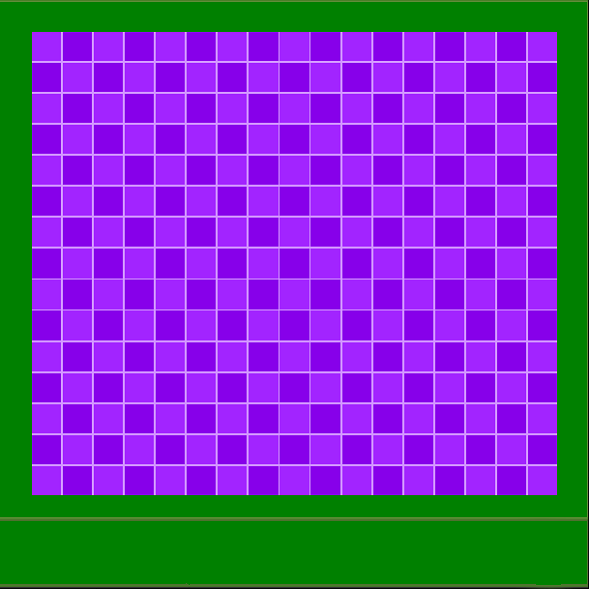
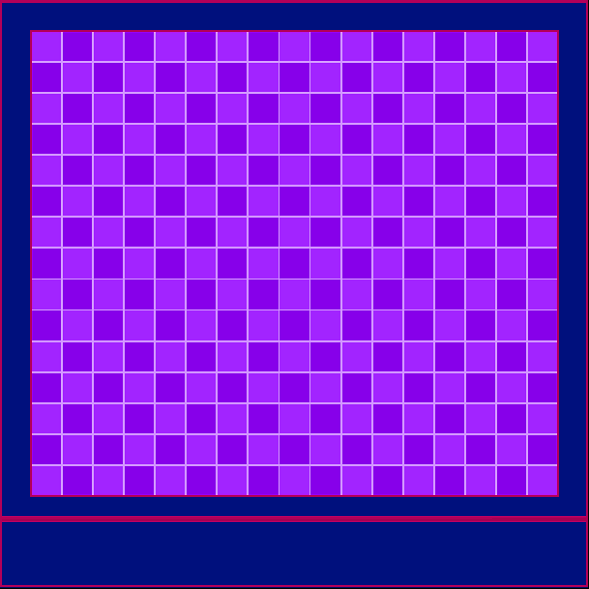
add full game

Changed region(s): [[0.0, 0.0, 1.0, 1.0]]

diff --git a/task-3/js/snake.js b/task-3/js/snake.js
@@ -1,5 +1,9 @@
 const canvas = document.getElementById("snake");
 const ctx = canvas.getContext("2d");
+const startForm = document.getElementById("startForm");
+const startBtn = document.getElementById("startBtn");
+const gameEndForm = document.getElementById("gameEndForm");
+const restartBtn = document.getElementById("restartBtn");
 
 const ground = new Image();
 ground.src = "img/ground.png";
@@ -10,128 +14,166 @@ foodImg.src = "img/food.png";
 const poisonFoodImg = new Image();
 poisonFoodImg.src = "img/poisonFood.png";
 
+const tileX = 17;
+
+const tileY = 15;
+
 let tile = 31;
 
 let score = 0;
 
-let food = {
-    x: Math.floor((Math.random() * 17 + 1)) * tile,
-    y: Math.floor((Math.random() * 15 + 1)) * tile,
-};
+let food;
+let poisonFood;
 
-let poisonFood = {
-    x: Math.floor((Math.random() * 17 + 1)) * tile,
-    y: Math.floor((Math.random() * 15 + 1)) * tile,
+let snake = initSnake();
+food = getRandomPoint();
+poisonFood = getRandomPoint();
+
+function initSnake() {
+    return [
+        {
+            x: 9 * tile,
+            y: 8 * tile
+        }
+    ]
 }
-
-let snake = [];
-snake[0] = {
-    x: 9 * tile,
-    y: 8 * tile
-};
 
 document.addEventListener("keydown", direction);
 
 let dir;
+let newDir;
 
 function direction(input) {
-    if(input.keyCode == 37 && dir != "right")
-        dir = "left";
-    else if(input.keyCode == 38 && dir != "down")
-        dir = "up";
-    else if(input.keyCode == 39 && dir != "left")
-        dir = "right";
-    else if(input.keyCode == 40 && dir != "up")
-        dir = "down";
+    if (input.keyCode == 37 && dir != "right")
+        newDir = "left";
+    else if (input.keyCode == 38 && dir != "down")
+        newDir = "up";
+    else if (input.keyCode == 39 && dir != "left")
+        newDir = "right";
+    else if (input.keyCode == 40 && dir != "up")
+        newDir = "down";
 }
 
-function eatTail(head, arr) {
-    for(let i = 0; i < arr.length; i++) {
-        if(head.x == arr[i].x && head.y == arr[i].y)
-        clearInterval(timer);
+function isEatSelf(head, snake) {
+    for (let i = 0; i < snake.length; i++) {
+        if (head.x == snake[i].x && head.y == snake[i].y) {
+            endGame();
+        }
+        // clearInterval(timer);
     }
 }
 
-function drawObject() {
+function drawSnake() {
+    for (let i = 0; i < snake.length; i++) {
+        ctx.fillStyle = i == 0 ? "#0000FF" : "#0033CC";
+        ctx.fillRect(snake[i].x, snake[i].y, tile, tile);
+    };
+};
+
+function shownScore() {
+    ctx.fillStyle = "white";
+    ctx.font = "50px Times New Roman";
+    ctx.fillText("Score:", tile, tile * 18.3);
+
+    ctx.fillStyle = "white";
+    ctx.font = "50px Times New Roman";
+    ctx.fillText(score, tile * 5.2, tile * 18.35);
+};
+
+function getRandomPoint() {
+    const point = {
+        x: Math.floor((Math.random() * tileX + 1)) * tile,
+        y: Math.floor((Math.random() * tileY + 1)) * tile,
+    };
+
+    if (snake[0].x === point.x && snake[0].y === point.y) {
+        return getRandomPoint();
+    }
+    if (food && food.x === point.x && food.y === point.y) {
+        return getRandomPoint();
+    }
+    if (poisonFood && poisonFood.x === point.x && poisonFood.y === point.y) {
+        return getRandomPoint();
+    }
+
+    return point;
+};
+
+function eatSpawn({ x, y }) {
+    if (x == food.x && y == food.y) {
+        score++;
+        food = getRandomPoint();
+        snake.push({})
+    }
+    if (x == poisonFood.x && y == poisonFood.y) {
+        score--;
+        poisonFood = getRandomPoint();
+    }
+};
+
+function drawGame() {
+    dir = newDir;
+
     ctx.drawImage(ground, 0, 0);
 
     ctx.drawImage(foodImg, food.x, food.y);
 
     ctx.drawImage(poisonFoodImg, poisonFood.x, poisonFood.y);
 
-    for(let i = 0; i < snake.length; i++) {
-        ctx.fillStyle = i == 0 ? "#0000FF" : "#0033CC";
-        ctx.fillRect(snake[i].x, snake[i].y, tile, tile);
-    };
+    drawSnake();
 
-    ctx.fillStyle = "black";
-    ctx.font = "50px Times New Roman";
-    ctx.fillText("Score:", tile, tile * 18.3);
-
-    ctx.fillStyle = "black";
-    ctx.font = "50px Times New Roman";
-    ctx.fillText(score, tile * 5.2, tile * 18.35);
+    shownScore();
 
     let snakeX = snake[0].x;
     let snakeY = snake[0].y;
 
-    // if(timer = setInterval * 10) {
-    //     poisonFood = {
-    //         x: Math.floor((Math.random() * 17 + 1)) * tile,
-    //         y: Math.floor((Math.random() * 15 + 1)) * tile, 
-    //     }               
-    // } else
-    //     snake.pop();
-    // 
-    // 
-    //  Попытка привязать повторный респавн объекта к таймеру
+    eatSpawn(snake[0]);
 
-    if(snakeX == food.x && snakeY == food.y) {
-        score++;
-        food = {
-            x: Math.floor((Math.random() * 17 + 1)) * tile,
-            y: Math.floor((Math.random() * 15 + 1)) * tile,
-        };
-    } else 
-        snake.pop();
+    if (snakeX < tile || snakeX > tile * tileX || snakeY < tile || snakeY > tile * tileY) {
+        endGame();
+    }
 
-    if(snakeX == poisonFood.x && snakeY == poisonFood.y) {
-        score--;
-        poisonFood = {
-            x: Math.floor((Math.random() * 17 + 1)) * tile,
-            y: Math.floor((Math.random() * 15 + 1)) * tile,
-        };
-    } else
-        snake.pop();
+    if (dir == "left") snakeX -= tile;
+    if (dir == "right") snakeX += tile;
+    if (dir == "up") snakeY -= tile;
+    if (dir == "down") snakeY += tile;
 
-        if(snakeX == poisonFood.x && snakeY == poisonFood.y) {
-            score--;
-            poisonFood = {
-                x: Math.floor((Math.random() * 17 + 1)) * tile,
-                y: Math.floor((Math.random() * 15 + 1)) * tile,
-            };
-        } else
-            snake.pop();
-    
-            
-
-    if(snakeX < tile || snakeX > tile * 17
-       || snakeY < tile || snakeY > tile * 15)
-       clearInterval(timer);
-
-    if(dir == "left") snakeX -= tile;
-    if(dir == "right") snakeX += tile;
-    if(dir == "up") snakeY -= tile;
-    if(dir == "down") snakeY += tile;
+    snake.pop();
 
     let newHead = {
         x: snakeX,
         y: snakeY
     };
 
-    eatTail(newHead, snake)
+    isEatSelf(newHead, snake)
 
     snake.unshift(newHead);
 };
 
-let timer = setInterval(drawObject, 80);
+function endGame() {
+    clearInterval(timer);
+    gameEndForm.style.display = "block";
+}
+
+function reInitGame() {
+    snake = initSnake();
+    food = getRandomPoint();
+    poisonFood = getRandomPoint();
+
+    dir = null;
+    newDir = null;
+    score = 0;
+}
+
+let timer
+
+startBtn.addEventListener("click", () => {
+    timer = setInterval(drawGame, 80)
+    startForm.style.display = "none"
+});
+
+restartBtn.addEventListener("click", () => {
+    reInitGame();
+    timer = setInterval(drawGame, 120)
+    gameEndForm.style.display = "none";
+})

diff --git a/task-3/index.html b/task-3/index.html
@@ -8,6 +8,18 @@
     <link rel="stylesheet" href="css/style.css">
 </head>
 <body>
+    <div id="startForm">
+        <button id="startBtn">Start</button>
+        <p>Управление при помощи стрелок</p>
+        <p>Рестарт облегчает игру</p>
+    </div>
+
+    <div id="gameEndForm">
+        <button id="restartBtn">
+            Restart
+        </button>
+    </div>
+
     <canvas id='snake' width="608" height="608"></canvas>
     <script src="js/snake.js"></script>
 </body>

diff --git a/task-3/css/style.css b/task-3/css/style.css
@@ -2,3 +2,19 @@ canvas {
     display: block;
     margin: 0 auto;
 }
+
+#gameEndForm, #startForm {
+    padding: 50px;
+    background-color: rgb(5, 0, 77);
+    position: fixed;
+    top: 50%;
+    left: 50%;
+    font-size: 24px;
+    color: white;
+
+    transform: translate(-50%, -50%);
+}
+
+#gameEndForm {
+    display: none;
+}
